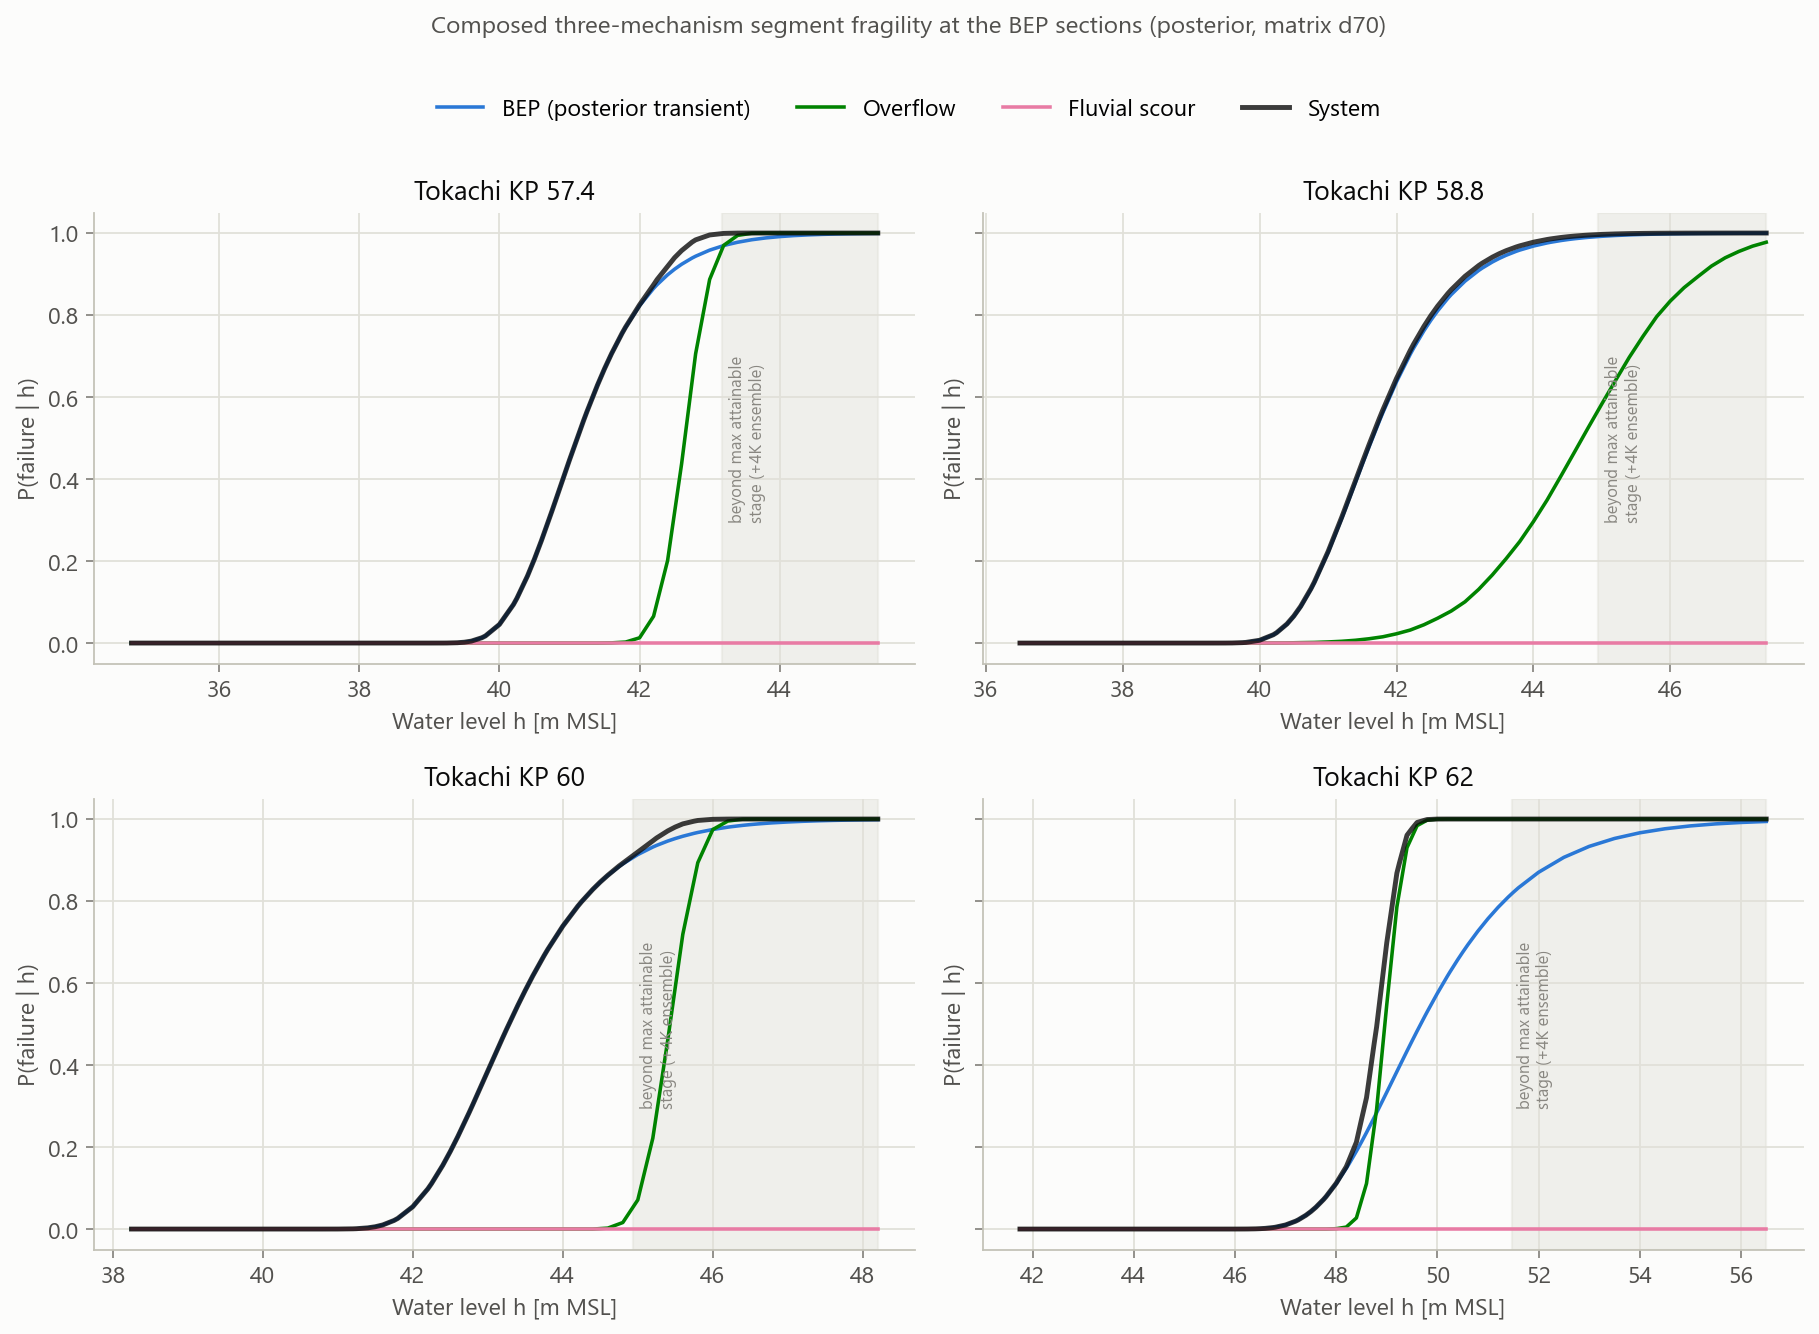
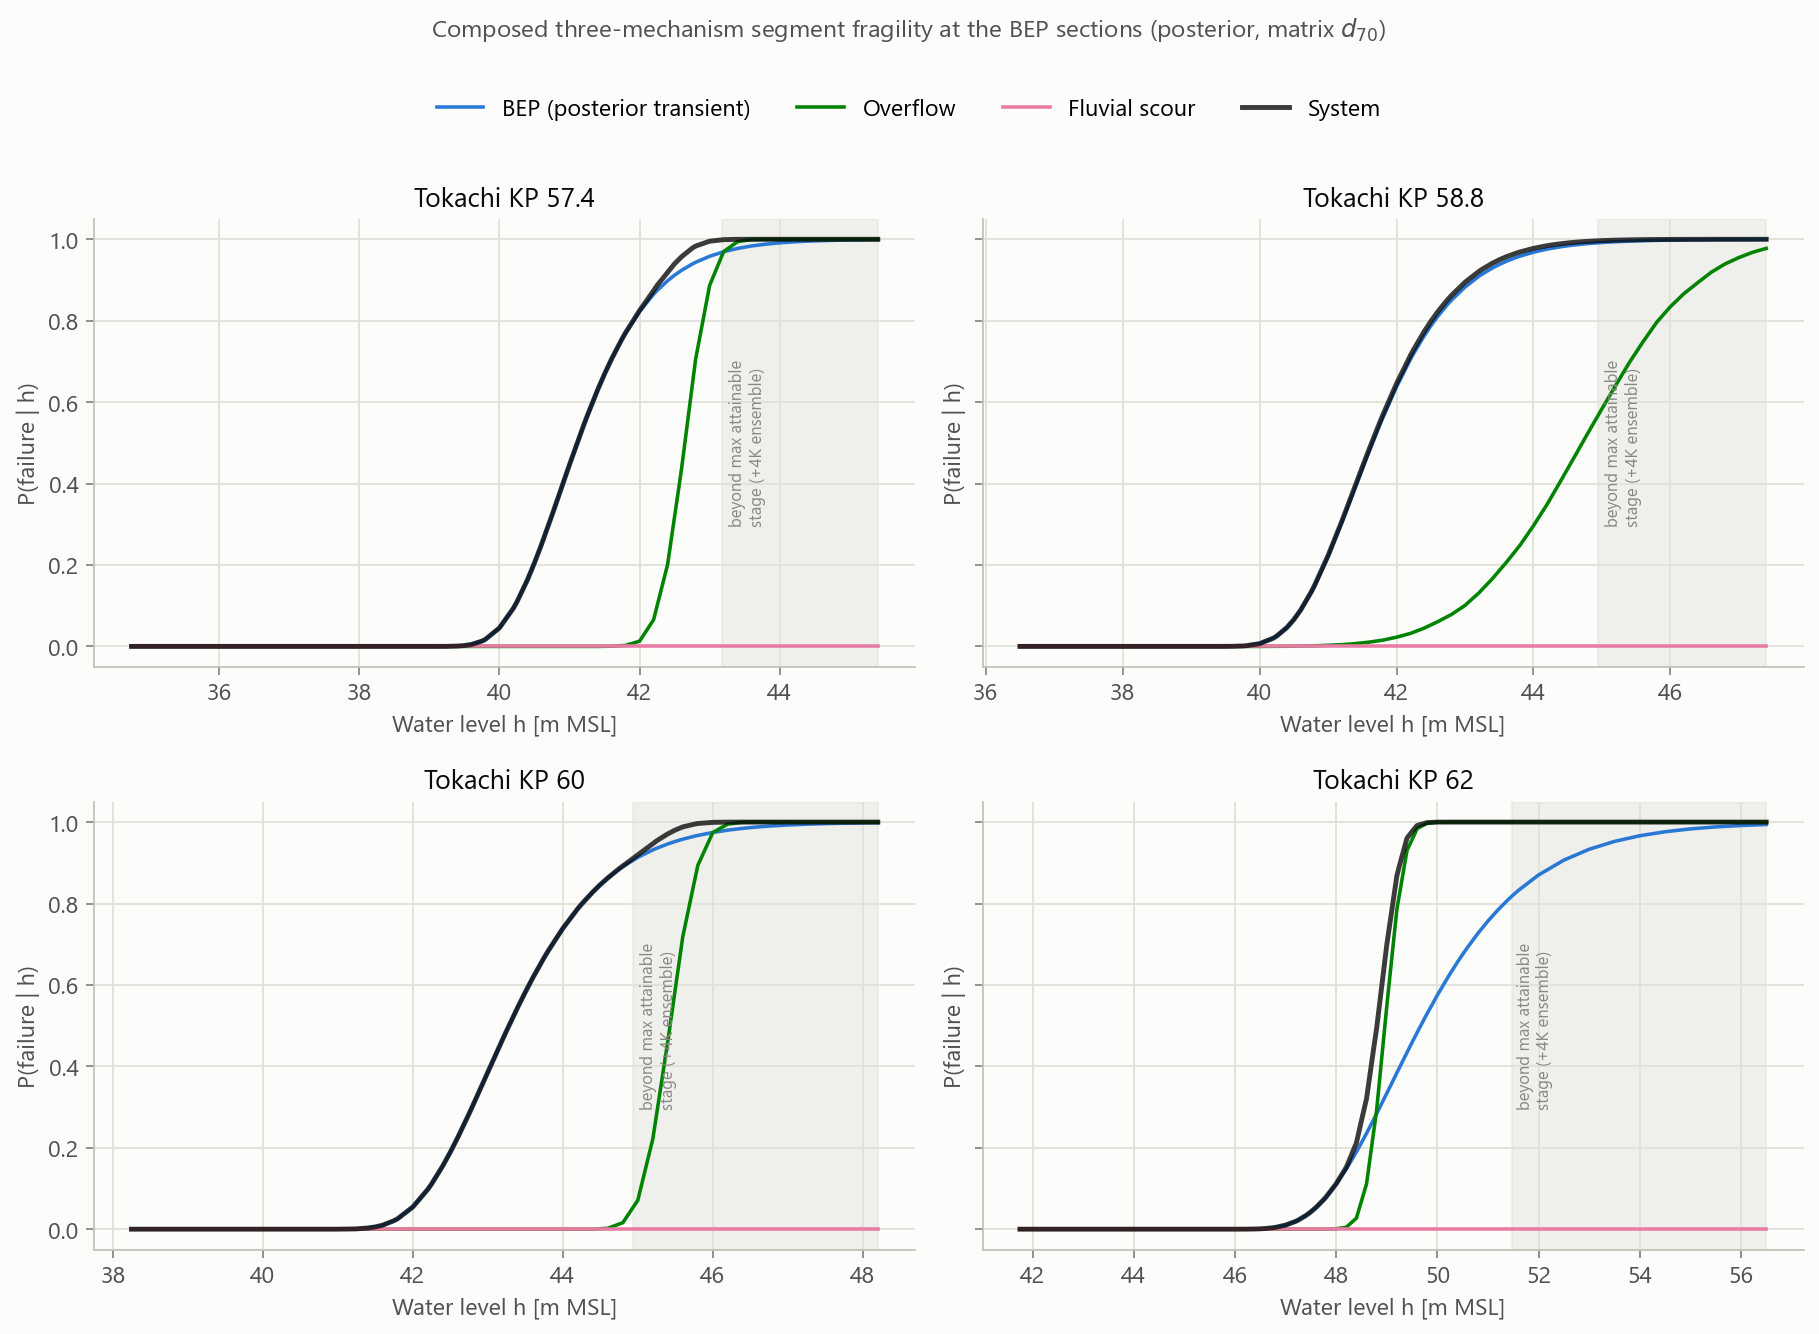
Render the record vocabulary out of six main-body figures
Section 9.3.1 forbids snake_case record field names in any text rendered
into a main-body figure, and notes the rule is not test-enforced because a
PNG holds no extractable text. Three drivers were still printing the record
keys themselves.

phase3_figures.py printed "matrix d70" and "lambda_ac", the rq4_annual.csv
column names, in four titles and a legend entry. seepage_length_figures.py
printed the theta keys L / k_aq / C_e / D_bl / d_70 straight onto an axis,
where the same quantities appear as symbols in every sensitivity figure.
Neither key is renamed: both drivers gain a display map beside the plotting
code, the way ARM_DISPLAY_NAMES and its siblings already work, and the map
is the single source for the RQ4 headline figure too, which already rendered
the symbols correctly and comes out byte-identical.

Two collisions repositioned, no information dropped. In the design-HWL bias
figure the "26.2 on 15 rows" annotation hung right of its anchor, into the
N = 1e6 curve, and an open marker sat on the word "rows"; both labels now
hang below-left, staggered by their own lower caps. In the climate-shift
figure the 40 m bracket triangle at KP 57.4 sat on the last letter of its
own legend entry; the panel gains headroom and the legend is pinned into it.

Swept all 34 figures the chapters \includegraphics, enumerated from
mainmatter/ rather than from a list, since section 9.3.1 records that the
2026-08-04 pass worked from a list and missed five promoted figures. Read
[…]

diff --git a/scripts/phase3_figures.py b/scripts/phase3_figures.py
@@ -51,6 +51,19 @@ MECH_LABELS = {
     "overflow": "Overflow",
     "fluvial_scour": "Fluvial scour",
 }
+
+#: Rendered names for the ``rq4_annual.csv`` record vocabulary. ``d70`` and
+#: ``lambda_ac_m`` are the annual table's own column names and are never
+#: renamed to satisfy the figure rule (conventions section 9.3.1); the
+#: substitution happens here, at render time. Chapter 3 names these the
+#: grain-size reading and the spatial autocorrelation length, and the RQ4
+#: headline figure already rendered them this way, so this is the driver's
+#: single source for both.
+D70_DISPLAY_NAMES: dict[str, str] = {
+    "matrix": "matrix $d_{70}$",
+    "bulk": "bulk $d_{70}$",
+}
+LAMBDA_AC_SYMBOL = r"$\lambda_{ac}$"
 INK = "#0b0b0b"
 INK_2 = "#52514e"
 MUTED = "#898781"
@@ -193,7 +206,8 @@ def fig_dominance_profile(df: pd.DataFrame) -> None:
     fig.legend(handles, labels, loc="upper center", ncol=4, bbox_to_anchor=(0.5, 1.02))
     fig.suptitle(
         "Annualized per-mechanism failure probability along the study reaches\n"
-        "(posterior BEP, matrix d70, lambda_ac = 250 m; values at the display "
+        f"(posterior BEP, {D70_DISPLAY_NAMES['matrix']}, "
+        f"{LAMBDA_AC_SYMBOL} = 250 m; values at the display "
         f"floor {FLOOR:g} are exact zeros)",
         y=1.10,
         fontsize=11,
@@ -253,7 +267,7 @@ def fig_bep_sections(curves: dict) -> None:
     fig.legend(handles, labels, loc="upper center", ncol=4, bbox_to_anchor=(0.5, 1.02))
     fig.suptitle(
         "Composed three-mechanism segment fragility at the BEP sections "
-        "(posterior, matrix d70)",
+        f"(posterior, {D70_DISPLAY_NAMES['matrix']})",
         y=1.07,
         fontsize=11,
         color=INK_2,
@@ -320,13 +334,20 @@ def fig_climate_shift(df: pd.DataFrame) -> None:
                     mfc="none",
                     color=color,
                     label=(
-                        "lambda_ac = 40 m bracket" if scen == "historical" else None
+                        f"{LAMBDA_AC_SYMBOL} = 40 m bracket"
+                        if scen == "historical"
+                        else None
                     ),
                 )
         ax.set_yscale("log")
+        # Headroom above the data, then pin the legend into it. The house
+        # style draws legends unframed, so a marker left under the legend
+        # strikes through its text: the 40 m bracket triangle at KP 57.4 sat
+        # on the last letter of its own legend entry.
+        ax.set_ylim(top=ax.get_ylim()[1] * 12.0)
         ax.set_title(river)
         ax.set_ylabel("Annual system P_f [1/yr]" if j == 0 else "")
-        ax.legend(fontsize=8.5)
+        ax.legend(fontsize=8.5, loc="upper left")
 
         merged = hist.merge(futu, on="kp", suffixes=("_h", "_f"))
         ratio = np.where(
@@ -345,9 +366,9 @@ def fig_climate_shift(df: pd.DataFrame) -> None:
     fig.suptitle(
         "REACH CONTEXT (not the RQ4 answer): climate shift of the annualized "
         "system failure probability over all 114 segments\n"
-        "posterior BEP, matrix d70. 110 of 114 segments have no geotechnically "
-        "characterised cross-section of their own and are surface-only "
-        "LOWER BOUNDS;\n"
+        f"posterior BEP, {D70_DISPLAY_NAMES['matrix']}. 110 of 114 segments "
+        "have no geotechnically characterised cross-section of their own and "
+        "are surface-only LOWER BOUNDS;\n"
         "the quantified RQ4 answer is the four characterised sections, given "
         "separately.",
         fontsize=9.5,
@@ -456,8 +477,8 @@ def fig_rq4_four_sections(df: pd.DataFrame) -> None:
     ax.set_ylabel("annual system $P_f$ [1/yr]")
     ax.set_title(
         "RQ4: annual system failure probability at the four characterised "
-        "sections\nposterior BEP, matrix $d_{70}$, $\\lambda_{ac}$ = 250 m, "
-        "primary surface curves",
+        f"sections\nposterior BEP, {D70_DISPLAY_NAMES['matrix']}, "
+        f"{LAMBDA_AC_SYMBOL} = 250 m, primary surface curves",
         loc="left",
     )
     ax.set_ylim(top=headroom * 12.0)
@@ -574,7 +595,8 @@ def fig_attribution(attr: dict) -> None:
     axes[0].set_ylabel("Conditional annual system P_f within stratum")
     fig.suptitle(
         "RQ4 attribution: duration- and compound-stratified conditional "
-        "failure probability (BEP sections, posterior matrix)",
+        f"failure probability (BEP sections, posterior, "
+        f"{D70_DISPLAY_NAMES['matrix']})",
         fontsize=11,
         color=INK_2,
     )

diff --git a/tests/test_companion_enumeration_gate.py b/tests/test_companion_enumeration_gate.py
@@ -222,18 +222,25 @@ def test_run_but_not_matched_is_the_benign_direction() -> None:
     each of these is invoked by the stage but fails one half of the regex.
 
     ``annualisation_uncertainty_study.py`` joined the list on 2026-08-20 and
-    fails the **assertion** half. Its load-bearing gate is a string-identity
+    **left it again the same day**, which is worth recording because it left
+    for no substantive reason. Its load-bearing gate is still a string-identity
     comparison against ``rq4_annual.csv``, not a bit-identity comparison against
-    an array or a ``config_hash`` round trip, so none of the four assertion
-    patterns fires. It reaches the persisted sweeps only through the campaign's
-    own ``_bep_path``, so it does not compose a ``tokachi_kp`` stem either.
-    Neither absence was engineered around the regex and neither is worth
-    engineering around: the enumeration exists to catch a consumer that is
-    **neither run nor excluded**, and this one is run.
+    an array or a ``config_hash`` round trip. What changed is that it gained the
+    sentence "bit-identity is not asserted because ...", and the assertion half
+    of the regex matched that **disclaimer** -- a textual false positive on a
+    negation. It composes a ``tokachi_kp`` stem too, at ``section_label``, for a
+    display label rather than a path. So it is now a full hit and is excluded
+    from this list by matching, not by running.
+
+    This is the converse of the evasion the ``enumerate_companions`` docstring
+    warns about: both halves are textual, so either can be dodged by a consumer
+    and either can be tripped by prose. Neither direction costs correctness
+    here. The enumeration exists to catch a consumer that is **neither run nor
+    excluded**, and this one is run; tightening the regex to ignore negated
+    prose would be a separate decision about the detection floor.
     """
     enumeration = PC.enumerate_companions()
     assert set(enumeration["run_but_not_matched_by_the_regex"]) == {
-        "scripts/annualisation_uncertainty_study.py",
         "scripts/assess_2011_2006_closure.py",
         "scripts/foreshore_exhaustion_study.py",
         "scripts/gsa_study.py",

diff --git a/scripts/seepage_length_figures.py b/scripts/seepage_length_figures.py
@@ -54,6 +54,19 @@ COV_VAL = {
     "cov0.40": 0.40,
 }
 
+#: Rendered names for the stochastic inputs. The keys are ``sampling``'s own
+#: ``PARAM_NAMES`` and the evidence JSON's ``theta_marginal_shift`` keys, so
+#: they index the record and are never renamed to satisfy the figure rule
+#: (conventions section 9.3.1); the substitution happens here, at render
+#: time, in the same symbols the sensitivity figures already use.
+PARAM_LABEL = {
+    "L": "$L$",
+    "k_aq": "$k_{aq}$",
+    "C_e": "$C_e$",
+    "D_bl": "$D_{bl}$",
+    "d_70": "$d_{70}$",
+}
+
 
 def fig_marginal() -> None:
     d = json.loads((REC / "marginal_sensitivity.json").read_text())
@@ -198,7 +211,7 @@ def fig_system_and_ceiling() -> None:
         ax.bar(np.arange(len(params)) + j * width, shifts, width, label=lab)
     ax.axhline(0, color="#000000", lw=0.8)
     ax.set_xticks(np.arange(len(params)) + width * (len(labels) - 1) / 2)
-    ax.set_xticklabels(params)
+    ax.set_xticklabels([PARAM_LABEL[p] for p in params])
     ax.set_ylabel("posterior mean shift [%]")
     ax.set_title(
         "Phase 2: 2016 survival barely moves L\n"

diff --git a/scripts/hwl_bias_resolution.py b/scripts/hwl_bias_resolution.py
@@ -1730,14 +1730,19 @@ def figure_hwl_bias(evidence: dict) -> Path:
                     else None
                 ),
             )
+        # Both labels hang below-left of their own lower cap. A2's used to
+        # hang to the right, where the N = 1e6 curve runs: its open marker
+        # landed on the word "rows" and ate two letters. Left of the anchor
+        # the curve is above the label, and the two labels clear each other
+        # vertically because their lower caps differ by more than a decade.
         axz.annotate(
             f"{ratio:.1f} on {int(row['k_transient'])} rows",
             (level, clo),
             textcoords="offset points",
-            xytext=(-6 if key == "A1" else 8, -14),
+            xytext=(-6, -14),
             fontsize=8.5,
             color=figstyle.RED,
-            ha="right" if key == "A1" else "left",
+            ha="right",
             va="top",
         )
 
